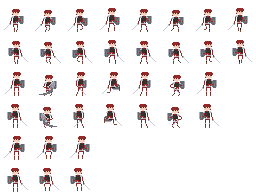
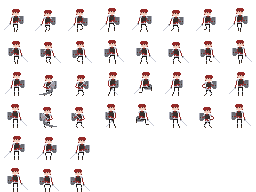
Animations Implemented

diff --git a/game/gameObjects/entity/player.js b/game/gameObjects/entity/player.js
@@ -18,10 +18,13 @@ class Player extends Entity {
         }
     }
 
+    jumpHold = false;
+
     isAttacking = false;
 
     constructor(name, x, y, width, height, src) {
         super(name, x, y, width, height, src);
+
         this.useGravity = true;
         this.mass = .6;
 
@@ -49,16 +52,26 @@ class Player extends Entity {
         }
 
 
-        this.addAnimationInformation("player_walk_right", 0, 7);
-        this.addAnimationInformation("player_walk_left", 8, 15);
-        this.addAnimationInformation("player_jump_right", 16, 22);
-        this.addAnimationInformation("player_jump_left", 24, 30);
-        this.addAnimationInformation("player_idle_right", 32, 34);
-        this.addAnimationInformation("player_idle_left", 40, 42);
+        this.boundaryOffsets.bottom = -1;
 
-        // TODO: Fix Animation not working!
-        this.setCurrentAnimationByName("player_idle_right");
-        console.log("Test");
+        this.image.addEventListener("load", () => {
+            this.addAnimationInformation("player_walk_right", 0, 7);
+            this.addAnimationInformation("player_walk_left", 8, 15);
+            this.addAnimationInformation("player_idle_right", 32, 34);
+            this.addAnimationInformation("player_idle_left", 40, 42);
+            // Jump Right
+            this.addAnimationInformation("player_jump_start_right", 16, 18);
+            this.addAnimationInformation("player_jump_hold_right", 18, 18);
+            this.addAnimationInformation("player_jump_double_right", 19, 19);
+            this.addAnimationInformation("player_jump_right", 20, 20);
+            this.addAnimationInformation("player_land_right", 21, 23);
+            // Jump Left
+            this.addAnimationInformation("player_jump_start_left", 24, 26);
+            this.addAnimationInformation("player_jump_hold_left", 26, 26);
+            this.addAnimationInformation("player_jump_double_left", 27, 27);
+            this.addAnimationInformation("player_jump_left", 28, 28);
+            this.addAnimationInformation("player_land_left", 29, 31);
+        });
 
         this.health.changed = true;
     }
@@ -73,7 +86,9 @@ class Player extends Entity {
             this.move.x = gameManager.getTimeAdjustedValue(this.move.velocity * this.movement.directionFacing * 2);
             LOGGER.log(this.position.y, this.position.x);
             //LOGGER.log(this.movement.dashCooldown);
-        }
+        } /*else {
+            this.move.x = this.move.velocity * this.movement.directionFacing;
+        }*/
         this.position.x += gameManager.getTimeAdjustedValue(this.move.x);
         this.position.y += gameManager.getTimeAdjustedValue(this.move.y);
 
@@ -95,6 +110,52 @@ class Player extends Entity {
         // ROUND POSITION
         this.position.x = Math.round(this.position.x);
         this.position.y = Math.round(this.position.y);
+
+        // Animations
+        if (this.isLoaded) {
+            let direction = (this.movement.directionFacing >= 0 ? "right" : "left");
+            // Do The Landing!
+            if (!this.isFalling && this.antiGravityForce <= 0 && (
+                this.currentAnimation === "player_jump_double_right" ||
+                this.currentAnimation === "player_jump_right" ||
+                this.currentAnimation === "player_land_right" ||
+                this.currentAnimation === "player_jump_double_left" ||
+                this.currentAnimation === "player_jump_left" ||
+                this.currentAnimation === "player_land_left"
+            )) {
+                this.setCurrentAnimationByName("player_land_" + direction);
+                this.animationDurationPerFrame = 1
+                console.log("Player is landing");
+                if (this.currentAnimationFrame != this.currentEndFrame)
+                    return;
+            }
+
+            if (this.jumpHold) {
+                console.log("Holding Jump")
+                this.animationDurationPerFrame = 5;
+                if ((this.currentAnimation === "player_jump_start_left" || this.currentAnimation === "player_jump_start_right") && this.currentAnimationFrame != this.currentEndFrame)
+                    this.setCurrentAnimationByName("player_jump_start_" + direction);
+                else
+                    this.setCurrentAnimationByName("player_jump_hold_" + direction);
+            } else if (this.move.x == 0 && !this.isFalling && this.antiGravityForce <= 0) {
+                this.setCurrentAnimationByName("player_idle_" + direction);
+                this.animationDurationPerFrame = 10;
+            } else if (this.move.x != 0 && !this.isFalling && this.antiGravityForce <= 0) {
+                this.setCurrentAnimationByName("player_walk_" + direction);
+                this.animationDurationPerFrame = 5;
+            } else if (this.isFalling || this.antiGravityForce >= 0) {
+                this.animationDurationPerFrame = 1;
+                if /*(this.currentAnimation === "player_jump_right" || this.currentAnimation === "player_jump_left" ||
+                ((this.currentAnimation === "player_jump_start_left" || this.currentAnimation === "player_jump_start_right")
+                && this.currentAnimationFrame == this.currentEndFrame))*/
+                    (this.currentAnimationFrame == this.currentEndFrame) {
+                    this.setCurrentAnimationByName("player_jump_" + direction);
+                } else {
+                    this.animationDurationPerFrame = 5;
+                    this.setCurrentAnimationByName("player_jump_double_" + direction);
+                }
+            }
+        }
     }
 
     checkWorldPostion() {

diff --git a/game/gameObjects/entity/enemy.js b/game/gameObjects/entity/enemy.js
@@ -16,13 +16,13 @@ class Enemy extends Entity {
     constructor(name, x, y, width, height, src) {
         src ??= "./image/entity/enemy/enemy.png";
         super(name, x, y, width, height, src);
-        this.addAnimationInformation("attack_right", 0, 10);
-        this.addAnimationInformation("attack_left", 18, 28);
-        this.addAnimationInformation("walk_left", 36, 43);
-        this.addAnimationInformation("walk_right", 55, 61);
-        this.addAnimationInformation("idle", 72, 89);
+        this.addAnimationInformation("enemy_attack_right", 0, 10);
+        this.addAnimationInformation("enemy_attack_left", 18, 28);
+        this.addAnimationInformation("enemy_walk_left", 36, 43);
+        this.addAnimationInformation("enemy_walk_right", 55, 61);
+        this.addAnimationInformation("enemy_idle", 72, 89);
 
-        this.setCurrentAnimationByName("walk_right");
+        this.setCurrentAnimationByName("enemy_walk_right");
         LOGGER.log("Enemy has been created");
         this.useGravity = true;
         this.mass = 1;
@@ -83,19 +83,19 @@ class Enemy extends Entity {
         this.move.direction.current = ((this.move.x < 0) ? -1 : ((this.move.x > 0) ? 1 : 0));
         if (this.move.direction.current != this.move.direction.previous) {
             // TODO: Implement Attack Sprite Handeling
-            // this.setCurrentAnimationByName("attack_right");
-            // this.setCurrentAnimationByName("attack_left");
+            // this.setCurrentAnimationByName("enemy_attack_right");
+            // this.setCurrentAnimationByName("enemy_attack_left");
             // TODO: Add Padding
             // TODO: Fix Animations
 
             if (this.move.direction.current == 0) {
-                this.setCurrentAnimationByName("idle");
-                // console.log("IDLE");
+                this.setCurrentAnimationByName("enemy_idle");
+                // console.log("enemy_IDLE");
             } else if (this.move.direction.current < 0) {
-                this.setCurrentAnimationByName("walk_left");
+                this.setCurrentAnimationByName("enemy_walk_left");
                 // console.log("Left");
             } else if (this.move.direction.current > 0) {
-                this.setCurrentAnimationByName("walk_right");
+                this.setCurrentAnimationByName("enemy_walk_right");
                 // console.log("right");
             }
             this.move.direction.previous = this.move.direction.current;

diff --git a/game/gameObjects/spriteAnimation.js b/game/gameObjects/spriteAnimation.js
@@ -5,12 +5,13 @@ class SpriteAnimation extends GameObject {
     rows = 0;
     currentSourceX = 0;
     currentSourceY = 0;
-    currentStartFrame = 0;
-    currentEndFrame = 0;
-    currentAnimationFrame = 0;
+    currentStartFrame = 10;
+    currentEndFrame = 10;
+    currentAnimationFrame = 10;
     isLoaded = false;
     animationDurationPerFrame = 5;
     currentAnimationFrameDuration = 0;
+    currentAnimation = "";
 
     entityHP = {
         show: false,
@@ -81,6 +82,7 @@ class SpriteAnimation extends GameObject {
     }
 
     changeFrameOfCurrentAnimation() {
+
         this.currentAnimationFrameDuration++;
         if (this.currentAnimationFrameDuration < this.animationDurationPerFrame) {
             return;
@@ -139,7 +141,10 @@ class SpriteAnimation extends GameObject {
     }
 
     setCurrentAnimationByName(name) {
+        if (this.currentAnimation === name)
+            return false;
         console.log(name);
+        this.currentAnimation = name;
         this.currentStartFrame = this.animations[name].startFrame;
         this.currentEndFrame = this.animations[name].endFrame;
         this.currentAnimationFrame = this.animations[name].startFrame;

diff --git a/game/setup/input.js b/game/setup/input.js
@@ -9,10 +9,8 @@ function keyDown(event) {
         return;
     switch (pressedKey) {
         case "w": case "arrowup": case " ":
-            if (player.jump())
-                keyPressing[pressedKey] = true;
-            else
-                keyRequest[pressedKey] = true;
+            keyPressing[pressedKey] = true;
+            player.jumpHold = true;
             LOGGER.log("Jump");
             break;
 
@@ -60,7 +58,8 @@ function keyUp(event) {
     keyRequest[pressedKey] = false;
     switch (pressedKey) {
         case "w": case "arrowup": case " ":
-            //keyPressing[pressedKey] = player.jump(false);
+            player.jumpHold = false;
+            player.jump();
             break;
 
         case "s": case "arrowdown":

diff --git a/game/gameObjects/scrolling/horizontalScrolling.js b/game/gameObjects/scrolling/horizontalScrolling.js
@@ -17,7 +17,6 @@ class HorizontalScrolling extends GameObject {
         // this.canvasStyle = this.canvasToMove.currentStyle || window.getComputedStyle(this.canvasToMove);
         this.minMarginLeft = - canvasSize.width + ((currentGameContainerWidth / 4) * 2.5); // fix this value
         this.minMarginLeft = -2884;
-        console.log("Canvas Size Width:", this.minMarginLeft)
         if (this.name === "moveLeft")
             this.position.x = currentGameContainerWidth / (4 * 2.5);
         else if (name === "moveRight")

diff --git a/game/spriteLoading/spriteLoader.js b/game/spriteLoading/spriteLoader.js
@@ -38,7 +38,6 @@ class SpriteLoader {
 
         canvasSize.width = this.levelMap[0].length * this.#elementSize * 2.5;
         canvasSize.height = this.levelMap.length * this.#elementSize * 2.5;
-        console.log(canvasSize.width);
 
         let playerPosition = {
             x: 0,
